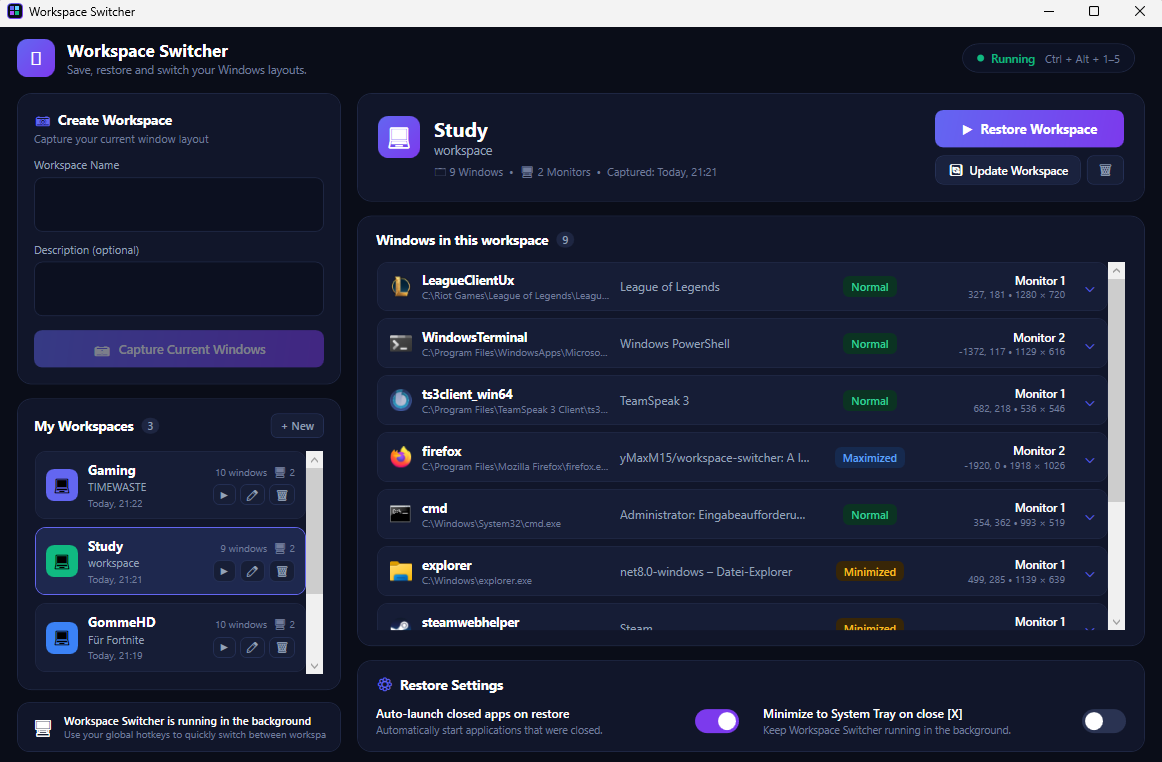
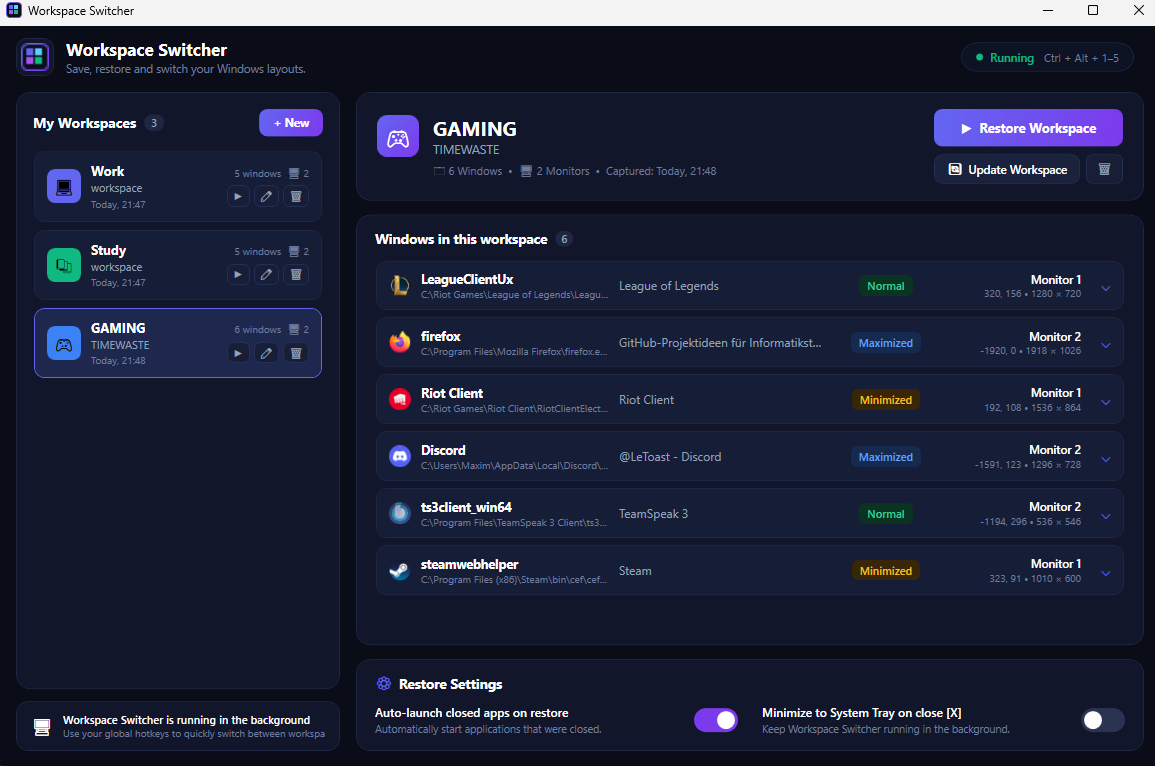
docs: update preview screenshot to github1.png and polish README to production perfection

diff --git a/README.md b/README.md
@@ -8,18 +8,18 @@
 ![Architecture](https://img.shields.io/badge/Architecture-x64%20%7C%20ARM64-lightgrey?style=for-the-badge)
 ![PRs Welcome](https://img.shields.io/badge/PRs-Welcome-brightgreen.svg?style=for-the-badge)
 
-**A high-performance, native Windows utility to snapshot, manage, and instantly restore multi-monitor window layouts and application workspaces via global hotkeys and system tray.**
+**A high-performance, native Windows utility to snapshot, customize, and instantly restore multi-monitor window layouts and application workspaces via global hotkeys, standalone executable, and system tray.**
 
 [Features](#-key-features) • [Architecture](#-architecture) • [How It Works Under The Hood](#-how-it-works-under-the-hood) • [Quick Start](#-quick-start) • [Troubleshooting](#-troubleshooting--common-issues) • [Project Structure](#-project-structure)
 
 <br />
 <br />
 
-<img src="docs/assets/dashboard.png" alt="Workspace Switcher Dashboard Preview" width="850" />
+<img src="docs/assets/dashboard.png" alt="Workspace Switcher Dashboard Preview" width="880" />
 
 <br />
 
-<sub><i>Modern Cyberpunk / Indigo Glassmorphism UI with multi-monitor coordinates, real-time process icon extraction, and custom window inspection.</i></sub>
+<sub><i>Modern Cyberpunk / Indigo Glassmorphism UI with multi-monitor coordinates, native executable process icon extraction, modal workspace creator, and real-time window inspection.</i></sub>
 
 </div>
 
@@ -37,12 +37,17 @@ When switching between multi-monitor setups, docking stations, unplugging extern
 
 ## ✨ Key Features
 
-* 📸 **Intelligent Window Snapshots:** Automatically discovers all user-facing application windows while filtering out invisible system services, desktop shells, and background UWP apps.
-* ⚡ **Pixel-Perfect Restoration:** Restores exact window coordinates and states (`Maximized`, `Normal`, `Minimized`) across single- and multi-monitor setups without visual distortions.
-* 🎛 **Interactive Window Customization:** Click on any window card to expand the customization drawer — change target states (`Normal`, `Maximized`, `Minimized`), reassign to specific displays (`Monitor 1`, `Monitor 2`, `Monitor 3`), edit pixel coordinates, or exclude windows with instant auto-save.
-* ⌨ **Standalone Global Hotkey Dispatcher:** Dedicated Win32 message-only thread (`HWND_MESSAGE`) enables low-latency global shortcuts (`Ctrl+Alt+1..5`) without blocking or relying on the GUI thread.
-* 🎨 **Cyberpunk / Indigo Glassmorphism UI:** Modern Fluent-inspired dark interface with rich extracted app icons, relative timestamps, monitor badges, and smooth iOS-style toggle switches.
-* 🪟 **System Tray Quick-Switch:** Minimal footprint tray icon with a dynamic context menu for 1-click workspace switching and snapshot capture.
+* 📸 **Intelligent Multi-Monitor Snapshots:** Automatically discovers all user-facing application windows across all connected displays while filtering out invisible system services, desktop shells, and suspended UWP apps.
+* ⚡ **Pixel-Perfect Restoration:** Restores exact window coordinates and states (`Maximized`, `Normal`, `Minimized`) across single- and multi-monitor setups without coordinate distortion or window borders glitches.
+* 🎨 **Dedicated Workspace Creation & Edit Modal:** Click **`+ New`** or the **`✏` Edit** button on any workspace to open a centered Dark Glassmorphism dialog where you can rename profiles, edit descriptions, and choose from a 16-icon glyph palette (`💻`, `🎮`, `📚`, `💼`, `🎨`, `🚀`, `🌐`, `⚙`, `🎬`, `🎧`, `⚡`, `🔥`, `🏆`, `📱`, `💡`, `☕`).
+* 🎛 **Interactive Window Customization Drawer:** Click on any window card to expand its detailed inspector:
+  * **Target Window State:** Set to `Normal`, `Maximized`, or `Minimized`.
+  * **Target Monitor:** Shift the window to `Monitor 1`, `Monitor 2`, or `Monitor 3` with automatic pixel offset recalculation.
+  * **Pixel Coordinates:** Fine-tune `X`, `Y`, `Width`, and `Height` parameters.
+  * **Exclusion / Deletion:** Remove specific windows from the workspace with instant reactive auto-save.
+* 🖼 **Native High-Res Executable Icon Extraction:** Automatically extracts and renders the authentic high-resolution application icon from each process's `.exe` on disk with concurrent memory caching.
+* ⌨ **Standalone Global Hotkey Dispatcher:** Dedicated Win32 message-only thread (`HWND_MESSAGE`) enables zero-latency global shortcuts (`Ctrl+Alt+1..5`) without blocking or relying on the GUI thread.
+* 🪟 **System Tray Quick-Switch & 1-Click `.exe` Launch:** Runs cleanly in the background with a system tray icon, auto-minimizaton, and single-file portable release distribution (`publish/WorkspaceSwitcher.UI.exe`).
 * 🚀 **Auto-Launch Missing Apps:** Optionally launches closed applications using their saved disk executable paths during layout restoration.
 * 🛡 **Zero-Corruption Persistence:** Profiles are stored as human-readable JSON files in `%APPDATA%\WorkspaceSwitcher\Profiles` with atomic file replace mechanics.
 
@@ -56,11 +61,14 @@ The application is structured into modular layers, separating low-level Win32 P/
 graph TD
     subgraph UI ["Presentation Layer (WPF / MVVM)"]
         MW[MainWindow Dashboard]
+        WD[WorkspaceDialog Modal]
         TI[TrayIconService]
+        IH[IconHelper - Native Cache]
         VM[MainViewModel]
     end
 
     subgraph Services ["Core Services & State"]
+        MS[MonitorService - EnumDisplayMonitors]
         PS[ProfileService - JSON Atomic I/O]
         SS[SettingsService - App Config]
     end
@@ -77,9 +85,12 @@ graph TD
     end
 
     MW --> VM
+    WD --> VM
     TI --> VM
+    MW --> IH
     VM --> PS
     VM --> SS
+    VM --> MS
     VM --> WM
     VM --> HM
     PS --> WM
@@ -97,24 +108,28 @@ graph TD
 Enumerating windows naively using `IsWindowVisible` yields dozens of invisible background windows, Cortana/Search hosts, desktop handles, and suspended UWP processes. `WindowManager` implements a strict 5-stage validation pipeline:
 
 ```csharp
-public static bool IsValidAppWindow(IntPtr hWnd, IntPtr shellHwnd)
+public static bool IsValidAppWindow(IntPtr hWnd, IntPtr shellHwnd, int currentProcessId)
 {
     if (hWnd == IntPtr.Zero || hWnd == shellHwnd) return false;
     if (!NativeMethods.IsWindowVisible(hWnd)) return false;
 
-    // 1. Filter out cloaked windows (suspended UWP apps & other virtual desktops)
+    // 1. Exclude our own WorkspaceSwitcher application windows
+    NativeMethods.GetWindowThreadProcessId(hWnd, out int processId);
+    if (processId == currentProcessId) return false;
+
+    // 2. Filter out cloaked windows (suspended UWP apps & virtual desktop ghosts)
     int cloakedVal = 0;
     int hr = NativeMethods.DwmGetWindowAttribute(hWnd, DWMWA_CLOAKED, out cloakedVal, sizeof(int));
     if (hr == 0 && cloakedVal != 0) return false;
 
-    // 2. Reject empty title windows (background helpers)
+    // 3. Reject empty title windows (background helpers)
     if (NativeMethods.GetWindowTextLength(hWnd) == 0) return false;
 
-    // 3. Reject ToolWindows (floating popups/toolbars) unless explicitly AppWindow
+    // 4. Reject ToolWindows unless explicitly AppWindow
     long exStyle = NativeMethods.GetWindowLongPtr(hWnd, GWL_EXSTYLE).ToInt64();
     if ((exStyle & WS_EX_TOOLWINDOW) != 0 && (exStyle & WS_EX_APPWINDOW) == 0) return false;
 
-    // 4. Blacklist Shell and System Class Names (Progman, WorkerW, Shell_TrayWnd)
+    // 5. Blacklist Shell and System Class Names (Progman, WorkerW, Shell_TrayWnd)
     var classSb = new StringBuilder(256);
     NativeMethods.GetClassName(hWnd, classSb, classSb.Capacity);
     if (IgnoredClasses.Contains(classSb.ToString())) return false;
@@ -196,8 +211,9 @@ Profiles are stored in `%APPDATA%\WorkspaceSwitcher\Profiles\<ProfileName>.json`
 {
   "name": "Coding",
   "description": "Dual monitor development setup",
+  "iconGlyph": "💻",
   "createdAt": "2026-08-31T17:34:00Z",
-  "lastModifiedAt": "2026-08-31T17:38:00Z",
+  "lastModifiedAt": "2026-08-31T21:40:00Z",
   "displayCount": 2,
   "windows": [
     {
@@ -222,9 +238,9 @@ Profiles are stored in `%APPDATA%\WorkspaceSwitcher\Profiles\<ProfileName>.json`
 
 ## 🚀 Quick Start
 
-### 1. Prerequisites & Installation
+### 1. Prerequisites
 * **Windows 10 / 11** (x64 / ARM64)
-* **.NET 8.0 SDK** or later.
+* **.NET 8.0 SDK** (if building from source).
 
 > **💡 Quick Install via Windows Package Manager (winget):**
 > ```powershell
@@ -234,7 +250,16 @@ Profiles are stored in `%APPDATA%\WorkspaceSwitcher\Profiles\<ProfileName>.json`
 
 ---
 
-### 2. Build & Run
+### 2. Launch Standalone Executable (Fastest)
+A ready-to-run portable single-file executable is generated in `./publish`:
+```powershell
+./publish/WorkspaceSwitcher.UI.exe
+```
+*(Or double-click the **Workspace Switcher** shortcut on your Desktop).*
+
+---
+
+### 3. Build & Run From Source
 
 1. **Clone the repository:**
    ```powershell
@@ -266,6 +291,8 @@ workspace-switcher/
 ├── .gitignore
 ├── README.md
 ├── WorkspaceSwitcher.sln
+├── publish/                                 # Standalone single-file Release executable
+│   └── WorkspaceSwitcher.UI.exe
 └── src/
     ├── WorkspaceSwitcher.Core/              # Core Engine Class Library (.NET 8)
     │   ├── Hotkeys/
@@ -276,23 +303,29 @@ workspace-switcher/
     │   │   ├── AppSettings.cs               # Application preferences model
     │   │   ├── WindowInfo.cs                # Window metadata & process paths
     │   │   ├── WindowPlacementInfo.cs       # Geometry & state DTOs
-    │   │   └── WorkspaceProfile.cs          # Workspace profile container
+    │   │   └── WorkspaceProfile.cs          # Workspace profile container with icon glyph
     │   ├── Native/
     │   │   └── NativeMethods.cs             # 64-bit safe Win32 & DWM P/Invoke declarations
     │   ├── Services/
     │   │   ├── IProfileService.cs           # Profile management interface
+    │   │   ├── MonitorService.cs            # Multi-display detection & bounds service
     │   │   ├── ProfileService.cs            # Atomic JSON read/write persistence
     │   │   └── SettingsService.cs           # Application configuration service
     │   └── WindowManager.cs                 # Snapshot filtering, matching & repositioning engine
     │
-    ├── WorkspaceSwitcher.UI/                # Modern Dark WPF Application (.NET 8)
-    │   ├── App.xaml / App.xaml.cs           # App lifecycle & service bootstrapping
-    │   ├── MainWindow.xaml / .cs            # Fluent 2-column dark dashboard & inspector
+    ├── WorkspaceSwitcher.UI/                # Modern Cyberpunk WPF Application (.NET 8)
+    │   ├── App.xaml / App.xaml.cs           # App lifecycle & glassmorphism theme resources
+    │   ├── MainWindow.xaml / .cs            # 2-column dark dashboard & window inspector
+    │   ├── app.ico                          # Multi-resolution application icon (16-256px)
+    │   ├── Views/
+    │   │   └── WorkspaceDialog.xaml / .cs   # Modal dialog for creating and editing profiles
     │   ├── Services/
+    │   │   ├── IconHelper.cs                # Native high-res .exe icon extractor & cache
     │   │   └── TrayIconService.cs           # System Tray Icon & dynamic context menu
     │   └── ViewModels/
     │       ├── MainViewModel.cs             # Primary MVVM ViewModel
-    │       ├── ProfileItemViewModel.cs      # Profile Card ViewModel
+    │       ├── ProfileItemViewModel.cs      # Workspace Card & Icon ViewModel
+    │       ├── WindowItemViewModel.cs       # Per-Window Inspector ViewModel
     │       └── RelayCommand.cs              # Generic ICommand implementation
     │
     └── WorkspaceSwitcher.Cli/               # Headless CLI & Test Runner
@@ -311,7 +344,7 @@ workspace-switcher/
 | <kbd>Ctrl</kbd> + <kbd>Alt</kbd> + <kbd>4</kbd> | Restore 4th saved workspace profile |
 | <kbd>Ctrl</kbd> + <kbd>Alt</kbd> + <kbd>5</kbd> | Restore 5th saved workspace profile |
 
-*(Hotkeys can be customized and mapped dynamically in the settings).*
+*(Hotkeys are dynamically assigned in real-time to your top 5 workspaces).*
 
 ---
 
